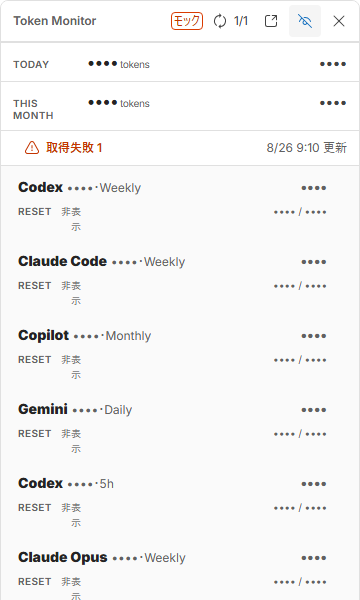
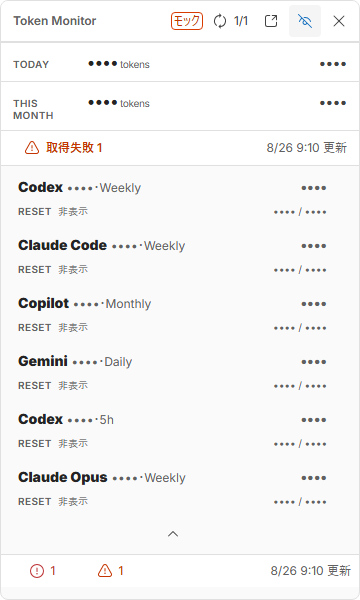
Use visual one-character reset spacing

diff --git a/frontend/src/windows/compact/CompactWindow.tsx b/frontend/src/windows/compact/CompactWindow.tsx
@@ -230,26 +230,31 @@ const useStyles = makeStyles({
     fontVariantNumeric: "tabular-nums",
   },
   resetLine: {
-    display: "grid",
-    gridTemplateColumns: "5ch 4ch 5ch auto minmax(0, 1fr)",
+    display: "flex",
     alignItems: "baseline",
-    columnGap: "1ch",
     minWidth: 0,
     color: tokens.colorNeutralForeground3,
     fontSize: tokens.fontSizeBase100,
     lineHeight: tokens.lineHeightBase200,
+  },
+  resetDetails: {
+    display: "flex",
+    alignItems: "baseline",
+    gap: "1ch",
+    flexShrink: 0,
+    minWidth: 0,
   },
   resetLabel: {
     fontWeight: tokens.fontWeightSemibold,
     letterSpacing: ".04em",
     textTransform: "uppercase",
   },
-  resetValue: { fontVariantNumeric: "tabular-nums", textAlign: "end" },
+  resetValue: { fontVariantNumeric: "tabular-nums" },
   usageLimit: {
-    gridColumn: "5",
-    justifySelf: "end",
+    marginLeft: "auto",
     overflow: "hidden",
     fontVariantNumeric: "tabular-nums",
+    textAlign: "end",
     textOverflow: "ellipsis",
     whiteSpace: "nowrap",
   },
@@ -863,8 +868,8 @@ function UsageRow({
 }
 
 /**
- * Reset date and time in fixed columns so every row lines up, with the
- * freshness warning reduced to an icon (`docs/design-system.md` §5.5, §7.1).
+ * Reset date and time use a one-character visual gap, with the freshness
+ * warning reduced to an icon (`docs/design-system.md` §5.5, §7.1).
  */
 function LimitResetLine({
   item,
@@ -881,25 +886,27 @@ function LimitResetLine({
   const staleFreshness = item.freshness.status.intent !== "success";
   return (
     <div className={styles.resetLine} title={item.tooltip}>
-      <span className={styles.resetLabel}>Reset</span>
-      {reset ? (
-        <>
-          <span className={styles.resetValue}>{reset.date}</span>
-          <span className={styles.resetValue}>{reset.time}</span>
-        </>
-      ) : (
-        <span className={styles.resetValue}>{item.reset.label}</span>
-      )}
-      {staleFreshness ? (
-        <span
-          className={styles.freshness}
-          title={item.freshness.observationAt}
-          aria-label={`最新観測 ${item.freshness.ageLabel}`}
-        >
-          <Warning16Regular aria-hidden="true" />
-          {item.freshness.ageLabel}
-        </span>
-      ) : null}
+      <span className={styles.resetDetails}>
+        <span className={styles.resetLabel}>Reset</span>
+        {reset ? (
+          <>
+            <span className={styles.resetValue}>{reset.date}</span>
+            <span className={styles.resetValue}>{reset.time}</span>
+          </>
+        ) : (
+          <span className={styles.resetValue}>{item.reset.label}</span>
+        )}
+        {staleFreshness ? (
+          <span
+            className={styles.freshness}
+            title={item.freshness.observationAt}
+            aria-label={`最新観測 ${item.freshness.ageLabel}`}
+          >
+            <Warning16Regular aria-hidden="true" />
+            {item.freshness.ageLabel}
+          </span>
+        ) : null}
+      </span>
       {item.estimatedLimitLabel ? (
         <span
           className={styles.usageLimit}
